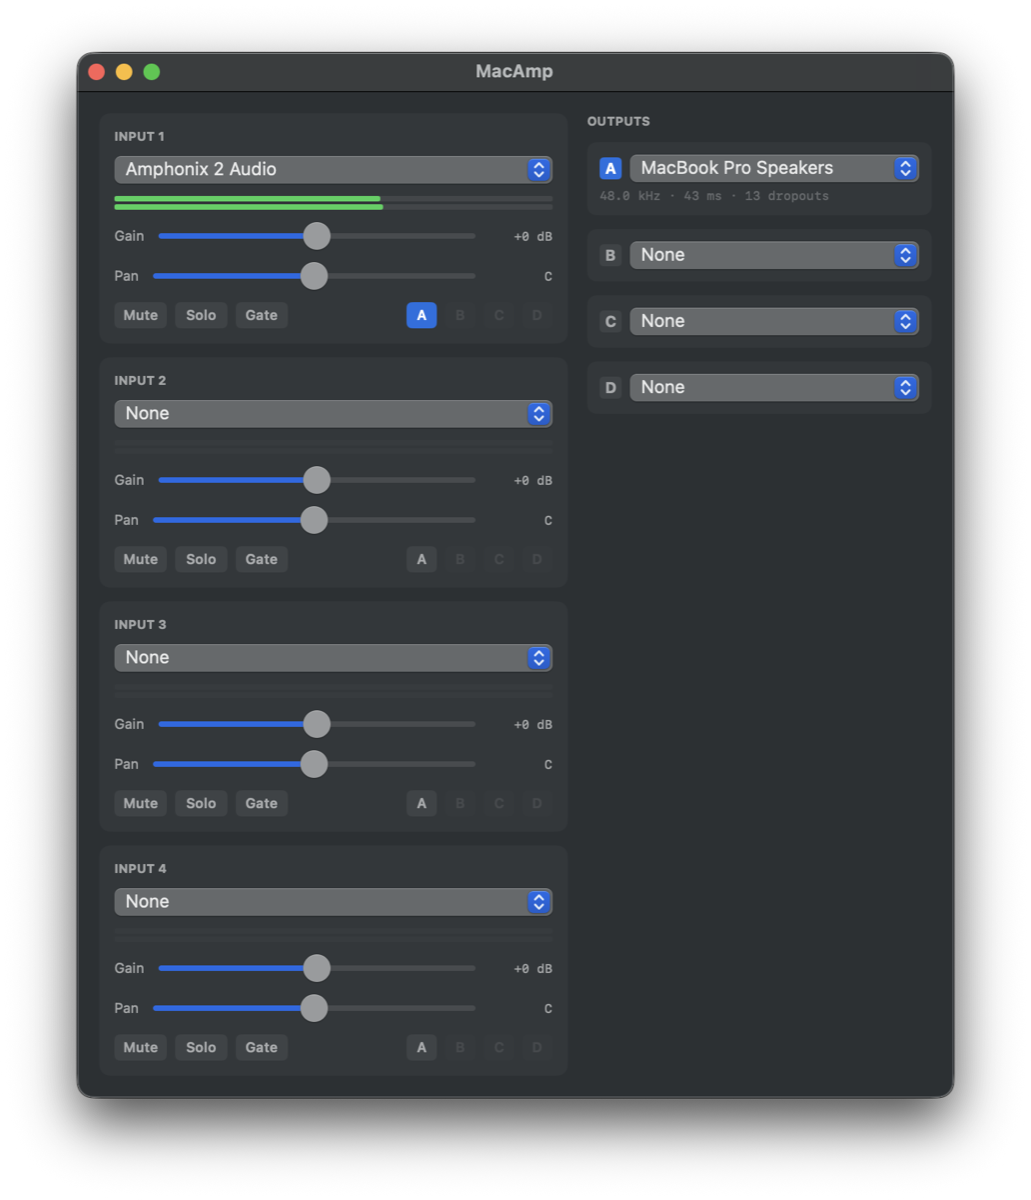
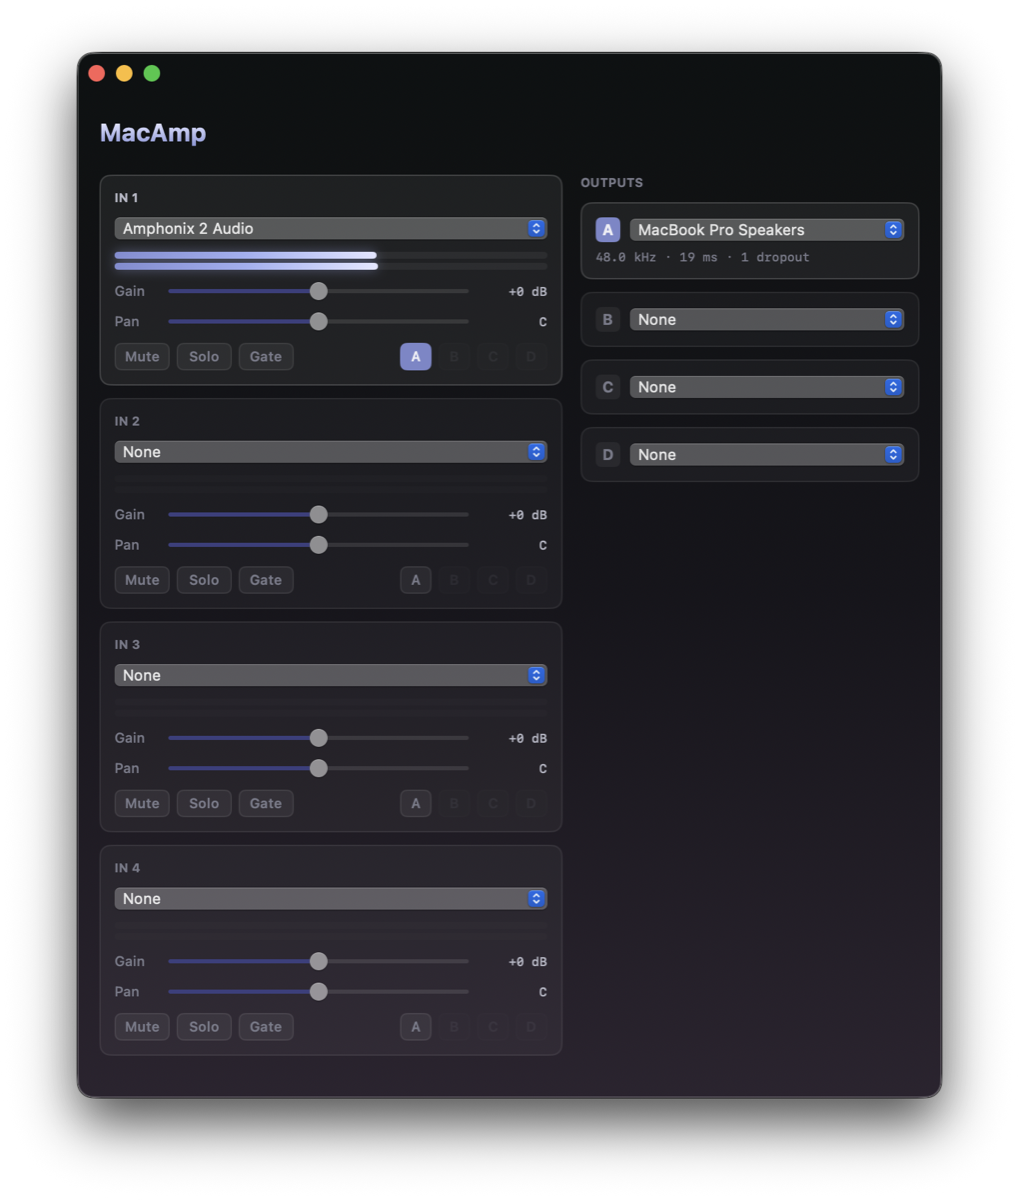
Update the screenshot for the redesigned interface
Replaces the pre-redesign capture with the current build: icon-derived palette,
hidden title bar, and the mixer's four strips and buses.

It also happens to document two fixes landing -- 19 ms round trip where the old
screenshot read 43, and 1 dropout where it read 13 -- and confirms the right
channel is live, which an earlier capture had left ambiguous.

diff --git a/README.md b/README.md
@@ -13,7 +13,7 @@ Four inputs, four output buses, a routing matrix, and nothing else. The tone is
 your hardware's business — MacAmp only does the part macOS itself refuses to.
 
 <p align="center">
-  <img src="assets/screenshot.png" alt="MacAmp — four input strips with gain, pan, mute, solo, gate and metering, routed to four output buses" width="820">
+  <img src="assets/screenshot.png" alt="MacAmp — four input strips with gain, pan, mute, solo, gate and metering, routed to four output buses" width="860">
 </p>
 
 > A personal project, built for a Sonicake Amphonix 2 going into a MacBook Pro.
